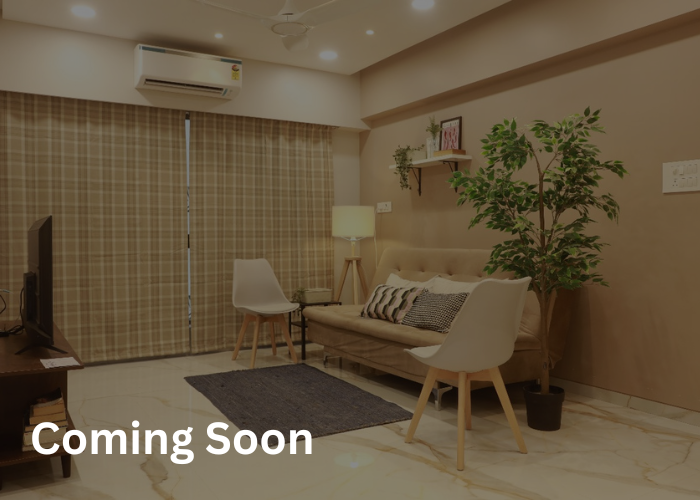
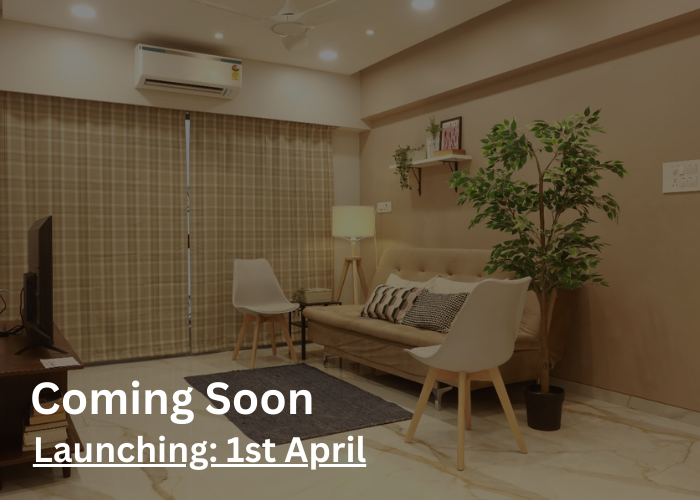
Balewadi Done

Changed region(s): [[0.03, 0.75, 0.54, 0.96]]

diff --git a/src/app/property/house-of-balewadi/page.js b/src/app/property/house-of-balewadi/page.js
@@ -4,16 +4,16 @@ import Head from 'next/head'
 import { GoogleAnalytics } from '@next/third-parties/google'
 
 export const metadata = {
-  title: "Best Coliving PG in Balewadi Pune | Premium Coliving Spaces for Male, Female and Couples",
-  description: "Find the best coliving PG in Balewadi, Pune. Modern amenities, safe spaces for males and females. Ideal coliving spaces in Baner for students & working professionals.",
+  title: "Luxury PG in Balewadi for Male & Female | Best Coliving Spaces in Pune",
+  description: "Looking for the best PG in Balewadi, Pune? Find the best coliving spaces for males & females with modern amenities. Ideal PG for students & professionals.",
   keywords: ['Union Living','Union Living Mumbai','Community Living in Mumbai', 'Community Living in Pune', 'Community Living in Thane','Community Living in Navi Mumbai', "Premium Co-living",'Best Community'],
   verification: {
     google: 'd2t3dmGtRE5YMyQqUbiHFM-lWvnz9mpRbS7Wwmb8uS0',
   },
   openGraph: {
-    title: "Best Coliving PG in Balewadi Pune | Premium Coliving Spaces for Male, Female and Couples",
-  description: "Find the best coliving PG in Balewadi, Pune. Modern amenities, safe spaces for males and females. Ideal coliving spaces in Baner for students & working professionals.",
-    url: 'https://unionliving.in/property/hamlet-coliving-baner-pune/',
+    title: "Luxury PG in Balewadi for Male & Female | Best Coliving Spaces in Pune",
+  description: "Looking for the best PG in Balewadi, Pune? Find the best coliving spaces for males & females with modern amenities. Ideal PG for students & professionals.",
+    url: 'https://unionliving.in/property/house-of-balewadi-coliving/',
     siteName: 'Union Living',
     images: [
       {
@@ -31,7 +31,7 @@ export const metadata = {
   
   },
   alternates: {
-    canonical: 'https://unionliving.in/property/hamlet-coliving-baner-pune/',
+    canonical: 'https://unionliving.in/property/house-of-balewadi-coliving/',
   },
  
   icons: {

diff --git a/src/app/property/house-of-balewadi/BalewadiProperty.js b/src/app/property/house-of-balewadi/BalewadiProperty.js
@@ -70,8 +70,8 @@ const BalewadiProperty = () => {
       <ThemeProvider>
         <NavbarTwo />
         <div className='lg:pt-[120px] pt-[60px]'>
-       <Banner beds="144" galleryImages={galleryImages} name="House of Balewadi" location="Balewadi, Pune" images={images} />
-     <Details subtitle="Where Modern Living Meets Vibrant Community Life" title="Experience Modern Living at Balewadi’s Premier Coliving Space" description="Enjoy a seamless blend of comfort, convenience, and community at Balewadi’s top coliving space. With modern amenities, engaging social events, and a prime location, your ideal lifestyle is just a move away. Join us today!" />
+       <Banner beds="144" galleryImages={galleryImages} name="House of Balewadi: Best PG in Balewadi for Male & Female" location="Balewadi, Pune" images={images} />
+     <Details subtitle="Where Modern Living Meets Vibrant Community Life" title="Experience Modern Living at Balewadi’s Premier Coliving Space" description="Enjoy a seamless blend of comfort, convenience, and community at Balewadi’s top coliving space. With modern amenities, engaging social events, and a prime location, our coliving spaces in Pune offer the perfect environment for students and professionals. Your ideal lifestyle is just a move away. Join us today!" />
        <Featured />
        {/* <Rooms rooms={rooms}   /> */}
        <WhatSection  />
